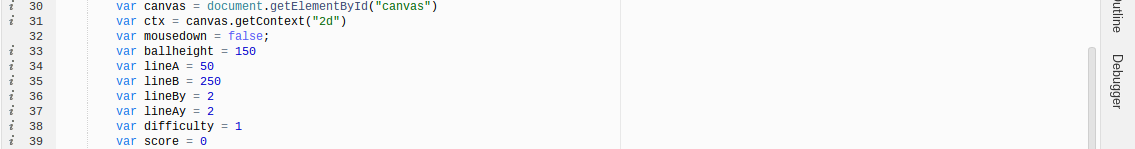
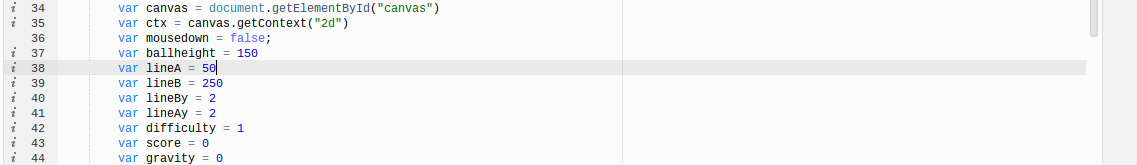
message about changes

diff --git a/BigProject.html b/BigProject.html
@@ -21,12 +21,12 @@
 <center>
 
 <div class="am-headings"><h1> How does this game work??? </h1>
-<h2>"This is a simple Gravity Ball game made with Html, Css, and JavaScript. In this game one is able to control a..."</h2></div>
+<h2>"This is a simple Gravity Ball game made with Html, Css, and JavaScript. In this game one is able to control a ball that is impacted by Gravity by clicking on a canvas to make the ball height rise. If one isn't clicking at all, then the ball will fall due to Newton's Law of Universal Gravitation. The goal of the game is to keep the ball from touching the dangerous lines for as long as possible or else the game ends. As of today no other human has come close to reaching my high score of 163,000! </h2> <h2> Warning: To some this game may be annoying, it may cause aggression, and it may become rather tedious due to rage quits. :)"</h2></div>
         
 <center><br>
 <img class="am-gif" src="images/FirstFlap.png">
 </center>
-<div class="am-head"><h1>Parts of code:</h1></div>
+<div class="am-head"><h1>Parts of code Without Comments:</h1></div>
 
 
 <table class= "am-description">
@@ -34,35 +34,36 @@
 <center>
 <img src="images/FlappyStart.png" alt="some_text" style="width:width;height:height;">
 </center>
-<div class= "am-headings">(Add)
+<div class= "am-headings">For this part of the code, I used a style tag which was used to define style information on my HTML page. In other words I can embed Style Sheets within the HTML page. Basically, I assigned certain Id's to certain elements and this part can act like a CSS page within the HTML page so that I would be able to make changes to texts, buttons, background images, and etc.   
 </div>
 
 <br><div class="am-description"><h1 class="am-heading2">Frame of Game:</h1 class="am-heading2">
 <center>
 <img src="images/FlappyStart2.png" alt="some_text" style="width:width;height:height;">
 </center>
-<div class= "am-headings">(Add)</div>
+<div class= "am-headings"> Here I first started off with a paragraph tag to type up the instructions for the game. Then I constructed a Canvas without content for now, so when the mouse is up or down it's telling the computer what to do when the canvas is clicked. I also added dimensions for the canvas, because it is frame for the game itself. I also used an input tag to create a simple button that realoads the page when clicked on. Notice how both of these tags on this page have id ="...", that is what is used for the < styles> part to change the texts.
+</div>
 
 <br>
 <div class="am-description"><h1 class="am-heading2">Variables:</h1 class="am-heading2">
 <center>
 <img src="images/FlappyStart3.png" alt="some_text" style="width:width;height:height;">
 </center>
-<div class= "am-headings">(Add)</div>
+<div class= "am-headings">A variable is a value that can change, depending on conditions or information passed onto the program. Different Variables can be assigned different roles, but it's really me that is telling the program these roles. For example in the code var Canvas.GetElementById ("canvas"), the getElementById() method returns the element that has the ID attribute with the specified value. An example of a condition in the code would be var mousedown= false;, because depending on whether a user clicks up or down, this condition changes based on the variable that I assigned. Finally, for the code to work I also realized that I would need variables for the ballheight, LineA (top line) Line B (Bottom Line), LineAy and LineBy for when I draw the ball on ball height, var difficulty, var score, var gravity are both going to change with each loop (which I'll explain later). </div>
 
 <br>
 <div class="am-description"><h1 class="am-heading2">First Function:</h1 class="am-heading2">
 <center>
 <img src="images/FlappyStart4.png" alt="some_text" style="width:width;height:height;">
 </center>
-<div class= "am-headings">(Add)</div>
+<div class= "am-headings">Now I created a function tick which also contains another function tick near the end of this code so that this function will run, see function tick withing itself, which means it will constantly loop over and over again. This is how my game will work. Now I set ballheight equal to ballheight plus gravity (which is constantly changing because of a condition set later in the code). Also Lines A and B added to Line Ay/ Line By, so that the values are constantly changing with each loop. The same thing goes with difficulty which will be added or subtracted to my lines later on to make the game more challenging by changing the heights of my lines more rapidly as the game loops. With score I took Score which = 0, and added it to Score + 100, because by doing so I am constantly adding 100 to score for each loop that passes by. </div>
 
 <br>
 <div class="am-description"><h1 class="am-heading2">Conditions:</h1 class="am-heading2">
 <center>
 <img src="images/FlappyStart5.png" alt="some_text" style="width:width;height:height;">
 </center>
-<div class= "am-headings">(Add)
+<div class= "am-headings">As stated before, I created if statements that would not only set limits to my lines, but also put my variables to work based on the conditions I set. So, first if Line A is > 100 + difficulty this means that the line Ay is multiplied by -1 which means the line changes directions. Also if Line A's height is < 5 then I the line will change directions again. With line B is the height is < 250, the line will change directions and if it's > 295 it will change directions again. Note that the lines are constantly changing which makes the game much more challenging and fun. Finally, I set an if statement where if the program recognizes mousedown, the code will add Gravity which equals Gravity + or - .2, because Gravity isn't constant, throughout the game it changes and depending on the balls height Gravity changes. This corresponds with the game if , for example, If I click and the ball's height is super high, then all of a sudden let go (mouse up) the program will recognize this and the ball will fall faster because there is more Gravity which will make it harder to get the ball's height back up.
 </div>
 
 <br>
@@ -70,7 +71,7 @@
 <center>
 <img src="images/FlappyStart6.png" alt="some_text" style="width:width;height:height;">
 </center>
-<div class= "am-headings">(Add)
+<div class= "am-headings"> By using Ctx I was able to draw my Ball and set its dimensions such as it radius, its height, its width and etc.... I also added conditions where if ball height is < line A or > line B a function known as kill will be called. However, I just threw this function in out of nowhere, it actually never exists in this code, because I never defined what kill is. Therefore, by call a function that isn't in existence, the game crashed and needs to be reloaded. Near the end of this code, I also used window.requestionAnimationFrame(tick) which simply slows down each time the tick function loops. As I stated before, the Tick function is in the the brackets of the first tick function, because this is what will allow this game to loop over and over again! 
 </div>
 
 <br>
@@ -78,15 +79,15 @@
 <center>
 <img src="images/FlappyStart7.png" alt="some_text" style="width:width;height:height;">
 </center>
-<div class= "am-headings">(Add)
+<div class= "am-headings">With the rest of this code, the computer can differentiate between whether my mouse is clicked down or if it is clicked up. The program now knows when I click down, the ball will rise and when I release the ball will fall. Gravity impacts this ball, and it is consistently changing. 
 </div>
 
 <br>
 <div class="am-description"><h1 class="am-heading2">What I learned:</h1 class="am-heading2">
 <center>
-<img src="https://www.austerenergy.com.br/wp-content/uploads/2016/03/mudancas-de-habito-podem-garantir-beneficios-na-eficiencia-energetica-img-03.png" alt="some_text" style="width:width;height:height;">
+<img src="images/Learned.png" alt="some_text" style="width:width;height:height;">
 </center>
-<div class= "am-headings">(Talk about how Matching Was Trashed!)
+<div class= "am-headings">I learned something new about being sucessful during this Project, because in the beginning I spent a lot of time biting off too much I could chew. I kept trying to build a matching game, but the truth is I am not at that level of programming yet. I was able to create a grid and and array with each of the letters, and I was able to get each boxes to flip, but from there I needed a ton of help from others, and I decided that in order for me to figure out how to do things by myself and how to learn I needed to do something else, otherwise I wouldn't learn much. That's why I decided to work harder on my own on this simple game. At first I felt that this game was too simple, because my peers were making their own complex games that make my game look like nothing at all. However, I learned that I should stick to what I know more than trying to bite off too much I could chew. 
 </div>
 
 </table>
@@ -99,19 +100,19 @@
 </br></center>
 <center>
 <center>
-<img src="images/FlapEnd1.png" alt="some_text" style="width:width;height:height;">
+<img src="images/FlappyEnding1.png" alt="some_text" style="width:width;height:height;">
 </center>
 
 <center>
-<img src="images/FlapEnd2.png" alt="some_text" style="width:width;height:height;">
+<img src="images/FlappyEnding2.png" alt="some_text" style="width:width;height:height;">
 </center>
 
 <center>
-<img src="images/FlapEnd3.png" alt="some_text" style="width:width;height:height;">
+<img src="images/FlappyEnding3.png" alt="some_text" style="width:width;height:height;">
 </center>
 
 <center>
-<img src="images/FlapEnd4.png" alt="some_text" style="width:width;height:height;">
+<img src="images/FlappyEnding4.png" alt="some_text" style="width:width;height:height;">
 </center>
 
 <br><center>

diff --git a/FlappyBall.html b/FlappyBall.html
@@ -33,18 +33,24 @@
     
 //Variables for the game var canvas stores an HTML element
         var canvas = document.getElementById("canvas")
-//CTX is like is used to manipulate the canvas
+//CTX is used to manipulate the canvas
         var ctx = canvas.getContext("2d")
 //Changes to true or false when clikced on canvas
         var mousedown = false;
 //Y value of the ball is when we choose to draw the ball on ball height
         var ballheight = 150
+//changing line heights by adding or subtracting LineAy or Line By
         var lineA = 50
         var lineB = 250
         var lineBy = 2
         var lineAy = 2
+//Difficulty changes by adding itself to line heights which changes with loops
         var difficulty = 1
+//Score is 0, because it there's no 1 number for score, it's constantly changing by adding during every loop        
         var score = 0
+//Gravity isn't consistent
+        var gravity = 0
+
 
 //Function that loops over and over gain
         function tick(){
@@ -79,7 +85,6 @@
                 
             }  
             
-            
 //If mousedown is true we add to Gravity which makes ball go up Gravity is constantly changing 
             if(mousedown === true){
                 gravity = gravity - .2
@@ -109,7 +114,6 @@
 //this tick calls itself by running itself over and over again, Javascrtipy will tke Window. requestion Animation Frame(tick) and it slows down after it's called
             window.requestAnimationFrame(tick)
         }
-        var gravity = 0
         tick()
     
 //When I click down ball rises,
